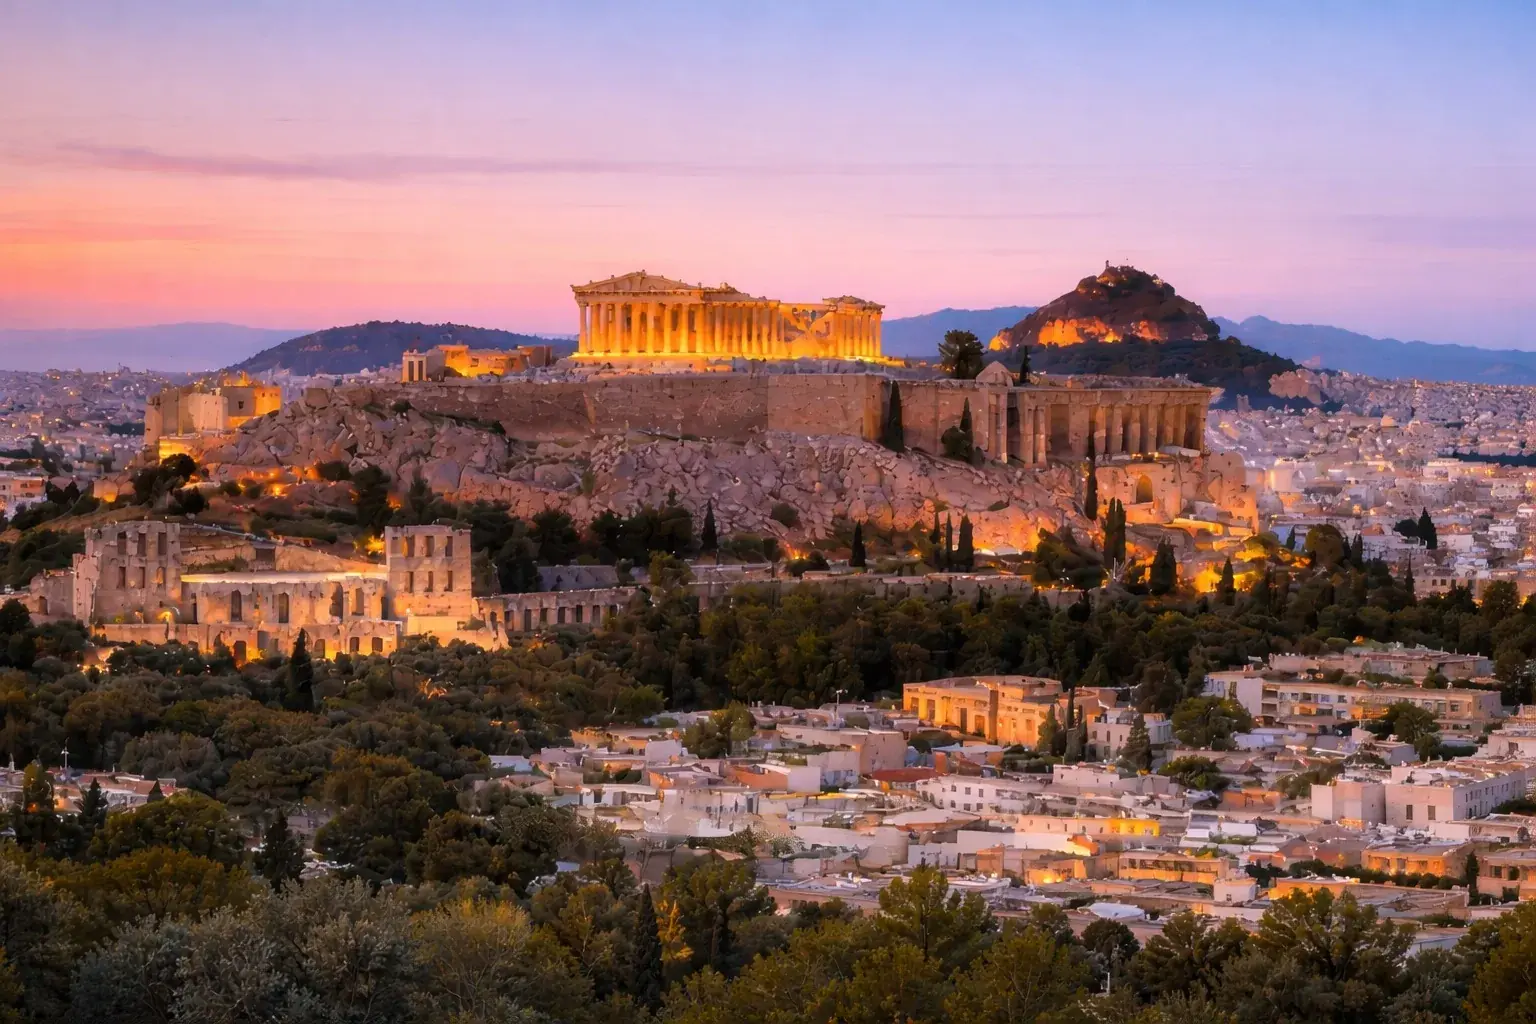
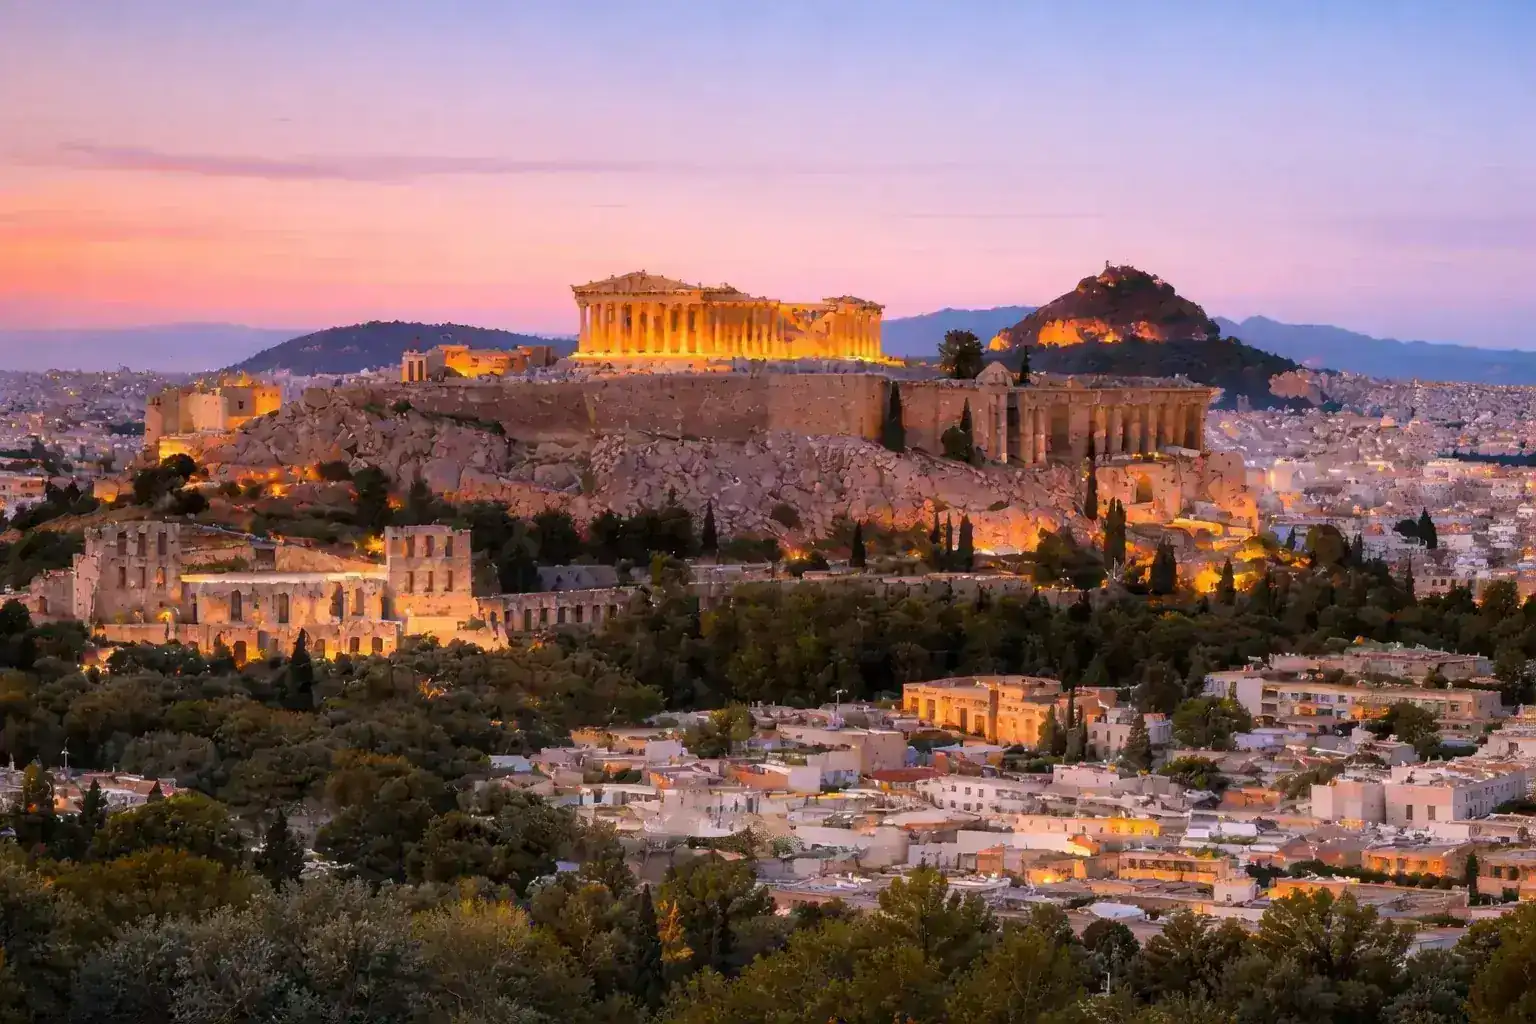
Optimize hero image: quality 90->75, source 149KB->113KB

diff --git a/app/[lang]/home-page-client.tsx b/app/[lang]/home-page-client.tsx
@@ -200,7 +200,7 @@ export default function HomePageClient({
             fill
             priority
             fetchPriority="high"
-            quality={90}
+            quality={75}
             className="object-cover"
             sizes="(max-width: 768px) 100vw, 50vw"
           />